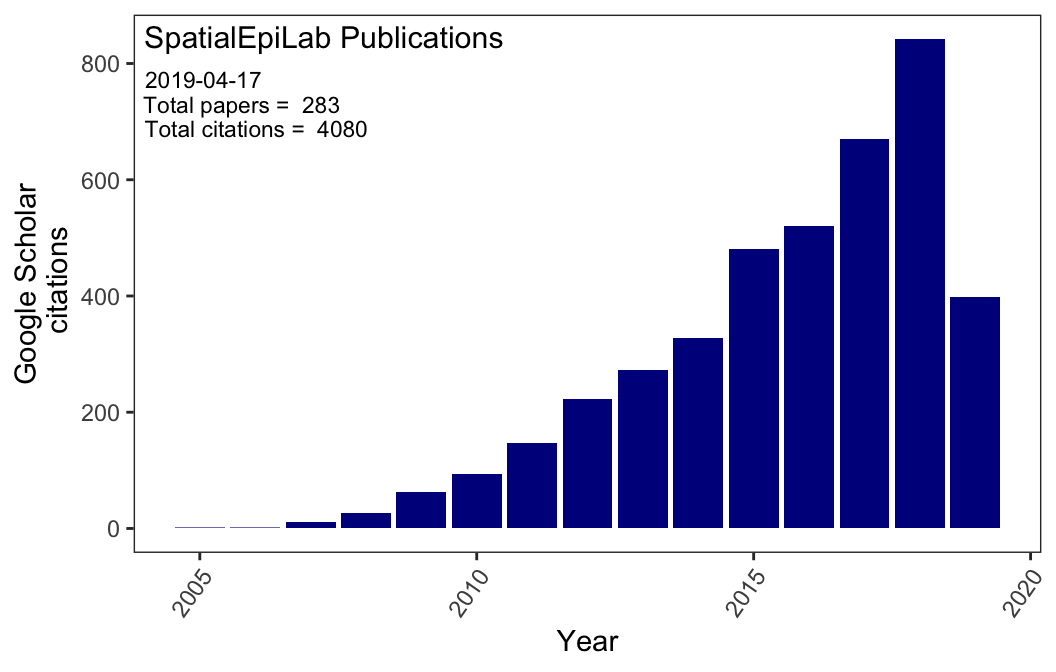
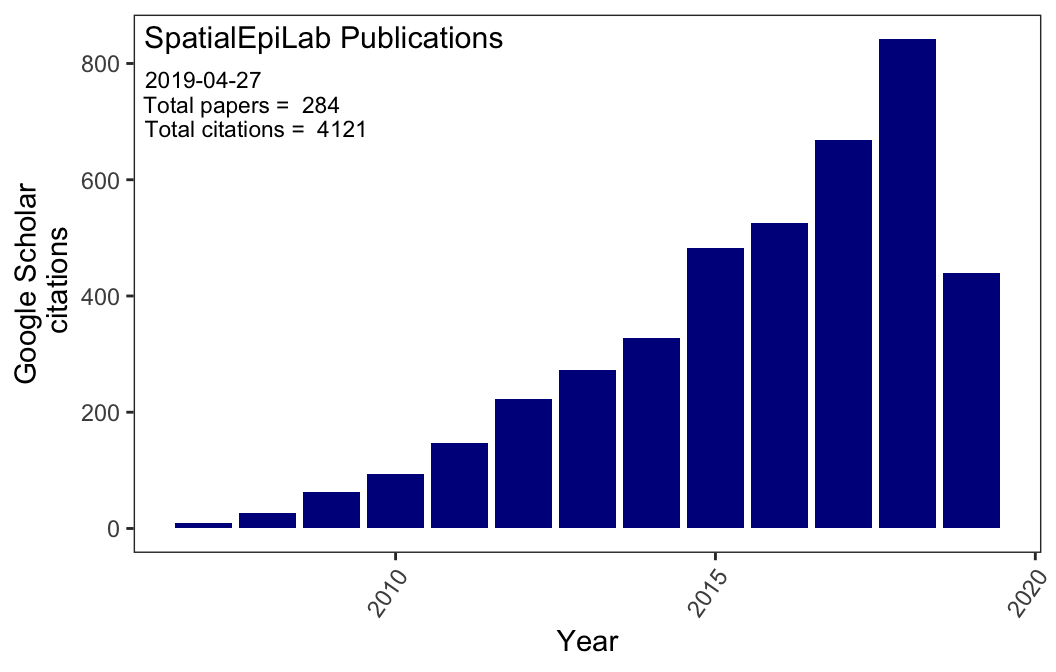
weekly update

diff --git a/publications.html b/publications.html
@@ -537,6 +537,17 @@ YAG Amare Minyihun, Measho Gebreslassie Gebregziabher
 </tr>
 <tr>
 <td style="text-align:left;width: 30em; ">
+Sociodemographic Profiling of Tuberculosis Hotspots in Ethiopia, 2014–2017
+</td>
+<td style="text-align:left;width: 20em; font-style: italic;">
+Transactions of the Royal Society of Tropical Medicine and Hygiene
+</td>
+<td style="text-align:left;width: 20em; ">
+YA Gelaw, G Williams, Y Assefa, et al
+</td>
+</tr>
+<tr>
+<td style="text-align:left;width: 30em; ">
 Spatial Clustering and Socio-Demographic Determinants of Hiv Infection in Ethiopia, 2015-2017
 </td>
 <td style="text-align:left;width: 20em; font-style: italic;">
@@ -857,17 +868,6 @@ NJ Clark, SM Clegg, K Sam, et al
 </tr>
 <tr>
 <td style="text-align:left;width: 30em; ">
-Phylogenetic Uniqueness, not Latitude, Explains the Diversity of Avian Blood Parasite Communities Worldwide
-</td>
-<td style="text-align:left;width: 20em; font-style: italic;">
-Global Ecology and Biogeography
-</td>
-<td style="text-align:left;width: 20em; ">
-NJ Clark
-</td>
-</tr>
-<tr>
-<td style="text-align:left;width: 30em; ">
 Global Spread of Helminth Parasites at the Human–domestic Animal–wildlife Interface
 </td>
 <td style="text-align:left;width: 20em; font-style: italic;">
@@ -875,6 +875,17 @@ Global Change Biology
 </td>
 <td style="text-align:left;width: 20em; ">
 K Wells, DI Gibson, NJ Clark, et al
+</td>
+</tr>
+<tr>
+<td style="text-align:left;width: 30em; ">
+Phylogenetic Uniqueness, not Latitude, Explains the Diversity of Avian Blood Parasite Communities Worldwide
+</td>
+<td style="text-align:left;width: 20em; font-style: italic;">
+Global Ecology and Biogeography
+</td>
+<td style="text-align:left;width: 20em; ">
+NJ Clark
 </td>
 </tr>
 <tr>
@@ -1694,17 +1705,6 @@ AMS Ahmed, RJS Magalhaes, T Ahmed, et al
 </tr>
 <tr>
 <td style="text-align:left;width: 30em; ">
-Determinants of Patient Survival During the 2014 Ebola Virus Disease Outbreak in Bong County, Liberia
-</td>
-<td style="text-align:left;width: 20em; font-style: italic;">
-Global Health Research and Policy
-</td>
-<td style="text-align:left;width: 20em; ">
-TA Weppelmann, B Donewell, U Haque, et al
-</td>
-</tr>
-<tr>
-<td style="text-align:left;width: 30em; ">
 Association of Vitamin d Status with Incidence of Enterotoxigenic, Enteropathogenic and Enteroaggregative Escherichia Coli Diarrhoea in Children of Urban Bangladesh
 </td>
 <td style="text-align:left;width: 20em; font-style: italic;">
@@ -1712,6 +1712,17 @@ Tropical Medicine &amp; Int Health
 </td>
 <td style="text-align:left;width: 20em; ">
 AM Shamsir Ahmed, RJ Soares Magalhaes, KZ Long, et al
+</td>
+</tr>
+<tr>
+<td style="text-align:left;width: 30em; ">
+Determinants of Patient Survival During the 2014 Ebola Virus Disease Outbreak in Bong County, Liberia
+</td>
+<td style="text-align:left;width: 20em; font-style: italic;">
+Global Health Research and Policy
+</td>
+<td style="text-align:left;width: 20em; ">
+TA Weppelmann, B Donewell, U Haque, et al
 </td>
 </tr>
 <tr>
@@ -2223,17 +2234,6 @@ A Islam, T Biswas
 </tr>
 <tr>
 <td style="text-align:left;width: 30em; ">
-Injecting Drug Users and their Health Seeking Behavior: a Cross-Sectional Study in Dhaka, Bangladesh
-</td>
-<td style="text-align:left;width: 20em; font-style: italic;">
-J of Addiction
-</td>
-<td style="text-align:left;width: 20em; ">
-SM Shariful Islam, T Biswas, FA Bhuiyan, et al
-</td>
-</tr>
-<tr>
-<td style="text-align:left;width: 30em; ">
 Mental Health and the Health System in Bangladesh: Situation Analysis of a Neglected Domain
 </td>
 <td style="text-align:left;width: 20em; font-style: italic;">
@@ -2241,6 +2241,17 @@ Am j Psychiatry Neurosci
 </td>
 <td style="text-align:left;width: 20em; ">
 A Islam, T Biswas
+</td>
+</tr>
+<tr>
+<td style="text-align:left;width: 30em; ">
+Injecting Drug Users and their Health Seeking Behavior: a Cross-Sectional Study in Dhaka, Bangladesh
+</td>
+<td style="text-align:left;width: 20em; font-style: italic;">
+J of Addiction
+</td>
+<td style="text-align:left;width: 20em; ">
+SM Shariful Islam, T Biswas, FA Bhuiyan, et al
 </td>
 </tr>
 <tr>
@@ -2267,17 +2278,6 @@ A Islam, GU Ahsan, T Biswas
 </tr>
 <tr>
 <td style="text-align:left;width: 30em; ">
-Diabetes Knowledge and Glycemic Control among Patients with Type 2 Diabetes in Bangladesh
-</td>
-<td style="text-align:left;width: 20em; font-style: italic;">
-Springerplus
-</td>
-<td style="text-align:left;width: 20em; ">
-S Mohammed, S Islam, LW Niessen, et al
-</td>
-</tr>
-<tr>
-<td style="text-align:left;width: 30em; ">
 Bangladesh Health System and the Millennium Development Goals: Strategic Policy Options for Sustained Progress in Maternal and Child Health
 </td>
 <td style="text-align:left;width: 20em; font-style: italic;">
@@ -2285,6 +2285,17 @@ European J of Preventive Medicine
 </td>
 <td style="text-align:left;width: 20em; ">
 A Islam, T Biswas
+</td>
+</tr>
+<tr>
+<td style="text-align:left;width: 30em; ">
+Diabetes Knowledge and Glycemic Control among Patients with Type 2 Diabetes in Bangladesh
+</td>
+<td style="text-align:left;width: 20em; font-style: italic;">
+Springerplus
+</td>
+<td style="text-align:left;width: 20em; ">
+S Mohammed, S Islam, LW Niessen, et al
 </td>
 </tr>
 <tr>
@@ -2619,17 +2630,6 @@ A Islam, T Biswas
 </tr>
 <tr>
 <td style="text-align:left;width: 30em; ">
-Injecting Drug Users and their Health Seeking Behavior: a Cross-Sectional Study in Dhaka, Bangladesh
-</td>
-<td style="text-align:left;width: 20em; font-style: italic;">
-J of Addiction
-</td>
-<td style="text-align:left;width: 20em; ">
-SM Shariful Islam, T Biswas, FA Bhuiyan, et al
-</td>
-</tr>
-<tr>
-<td style="text-align:left;width: 30em; ">
 Mental Health and the Health System in Bangladesh: Situation Analysis of a Neglected Domain
 </td>
 <td style="text-align:left;width: 20em; font-style: italic;">
@@ -2637,6 +2637,17 @@ Am j Psychiatry Neurosci
 </td>
 <td style="text-align:left;width: 20em; ">
 A Islam, T Biswas
+</td>
+</tr>
+<tr>
+<td style="text-align:left;width: 30em; ">
+Injecting Drug Users and their Health Seeking Behavior: a Cross-Sectional Study in Dhaka, Bangladesh
+</td>
+<td style="text-align:left;width: 20em; font-style: italic;">
+J of Addiction
+</td>
+<td style="text-align:left;width: 20em; ">
+SM Shariful Islam, T Biswas, FA Bhuiyan, et al
 </td>
 </tr>
 <tr>
@@ -2663,17 +2674,6 @@ A Islam, GU Ahsan, T Biswas
 </tr>
 <tr>
 <td style="text-align:left;width: 30em; ">
-Diabetes Knowledge and Glycemic Control among Patients with Type 2 Diabetes in Bangladesh
-</td>
-<td style="text-align:left;width: 20em; font-style: italic;">
-Springerplus
-</td>
-<td style="text-align:left;width: 20em; ">
-S Mohammed, S Islam, LW Niessen, et al
-</td>
-</tr>
-<tr>
-<td style="text-align:left;width: 30em; ">
 Bangladesh Health System and the Millennium Development Goals: Strategic Policy Options for Sustained Progress in Maternal and Child Health
 </td>
 <td style="text-align:left;width: 20em; font-style: italic;">
@@ -2681,6 +2681,17 @@ European J of Preventive Medicine
 </td>
 <td style="text-align:left;width: 20em; ">
 A Islam, T Biswas
+</td>
+</tr>
+<tr>
+<td style="text-align:left;width: 30em; ">
+Diabetes Knowledge and Glycemic Control among Patients with Type 2 Diabetes in Bangladesh
+</td>
+<td style="text-align:left;width: 20em; font-style: italic;">
+Springerplus
+</td>
+<td style="text-align:left;width: 20em; ">
+S Mohammed, S Islam, LW Niessen, et al
 </td>
 </tr>
 <tr>
@@ -3907,7 +3918,7 @@ A Ortiz-Pelaez, DU Pfeiffer, RJ Soares-Magalhaes, FJ Guitian
 2006
 </td>
 <td style="text-align:right;">
-196
+197
 </td>
 </tr>
 <tr>
@@ -3958,7 +3969,7 @@ RJS Magalhães, ACA Clements
 2011
 </td>
 <td style="text-align:right;">
-120
+121
 </td>
 </tr>
 <tr>
@@ -3975,7 +3986,7 @@ L Furuya-Kanamori, S Liang, G Milinovich, RJS Magalhaes, …
 2016
 </td>
 <td style="text-align:right;">
-115
+116
 </td>
 </tr>
 <tr>
@@ -3992,7 +4003,7 @@ DJ Connolly, RJS Magalhaes, VL Fuentes, HM Syme, G Cole, AM Boag
 2008
 </td>
 <td style="text-align:right;">
-103
+104
 </td>
 </tr>
 <tr>
@@ -4009,7 +4020,7 @@ DJ Connolly, RJ Soares Magalhaes, HM Syme, A Boswood, …
 2008
 </td>
 <td style="text-align:right;">
-103
+104
 </td>
 </tr>
 <tr>
@@ -4043,21 +4054,21 @@ V Martin, X Zhou, E Marshall, B Jia, G Fusheng, MA FrancoDixon, …
 2011
 </td>
 <td style="text-align:right;">
-84
+85
 </td>
 </tr>
 <tr>
 <td style="text-align:left;width: 30em; ">
-Risk Factors for Methicillin-Resistant Staphylococcus Aureus (Mrsa) Infection in Dogs and Cats: a Case-Control Study
+Industrial Food Animal Production and Global Health Risks: Exploring the Ecosystems and Economics of Avian Influenza
 </td>
 <td style="text-align:left;width: 20em; font-style: italic;">
-Veterinary Research
+Ecohealth
 </td>
 <td style="text-align:left;width: 20em; ">
-RJS Magalhães, A Loeffler, J Lindsay, M Rich, L Roberts, H Smith, …
+JH Leibler, J Otte, D Roland-Holst, DU Pfeiffer, RS Magalhaes, J Rushton, …
 </td>
 <td style="text-align:right;">
-2010
+2009
 </td>
 <td style="text-align:right;">
 84

diff --git a/people.html b/people.html
@@ -1015,20 +1015,6 @@ NJ Clark, SM Clegg, K Sam, et al
 2018
 </td>
 <td style="text-align:left;width: 30em; ">
-Phylogenetic Uniqueness, not Latitude, Explains the Diversity of Avian Blood Parasite Communities Worldwide
-</td>
-<td style="text-align:left;width: 20em; font-style: italic;">
-Global Ecology and Biogeography
-</td>
-<td style="text-align:left;width: 20em; ">
-NJ Clark
-</td>
-</tr>
-<tr>
-<td style="text-align:right;">
-2018
-</td>
-<td style="text-align:left;width: 30em; ">
 Global Spread of Helminth Parasites at the Human–domestic Animal–wildlife Interface
 </td>
 <td style="text-align:left;width: 20em; font-style: italic;">
@@ -1036,6 +1022,20 @@ Global Change Biology
 </td>
 <td style="text-align:left;width: 20em; ">
 K Wells, DI Gibson, NJ Clark, et al
+</td>
+</tr>
+<tr>
+<td style="text-align:right;">
+2018
+</td>
+<td style="text-align:left;width: 30em; ">
+Phylogenetic Uniqueness, not Latitude, Explains the Diversity of Avian Blood Parasite Communities Worldwide
+</td>
+<td style="text-align:left;width: 20em; font-style: italic;">
+Global Ecology and Biogeography
+</td>
+<td style="text-align:left;width: 20em; ">
+NJ Clark
 </td>
 </tr>
 <tr>
@@ -1423,6 +1423,20 @@ Bmc Research Notes
 </td>
 <td style="text-align:left;width: 20em; ">
 YAG Amare Minyihun, Measho Gebreslassie Gebregziabher
+</td>
+</tr>
+<tr>
+<td style="text-align:right;">
+2019
+</td>
+<td style="text-align:left;width: 30em; ">
+Sociodemographic Profiling of Tuberculosis Hotspots in Ethiopia, 2014–2017
+</td>
+<td style="text-align:left;width: 20em; font-style: italic;">
+Transactions of the Royal Society of Tropical Medicine and Hygiene
+</td>
+<td style="text-align:left;width: 20em; ">
+YA Gelaw, G Williams, Y Assefa, et al
 </td>
 </tr>
 <tr>
